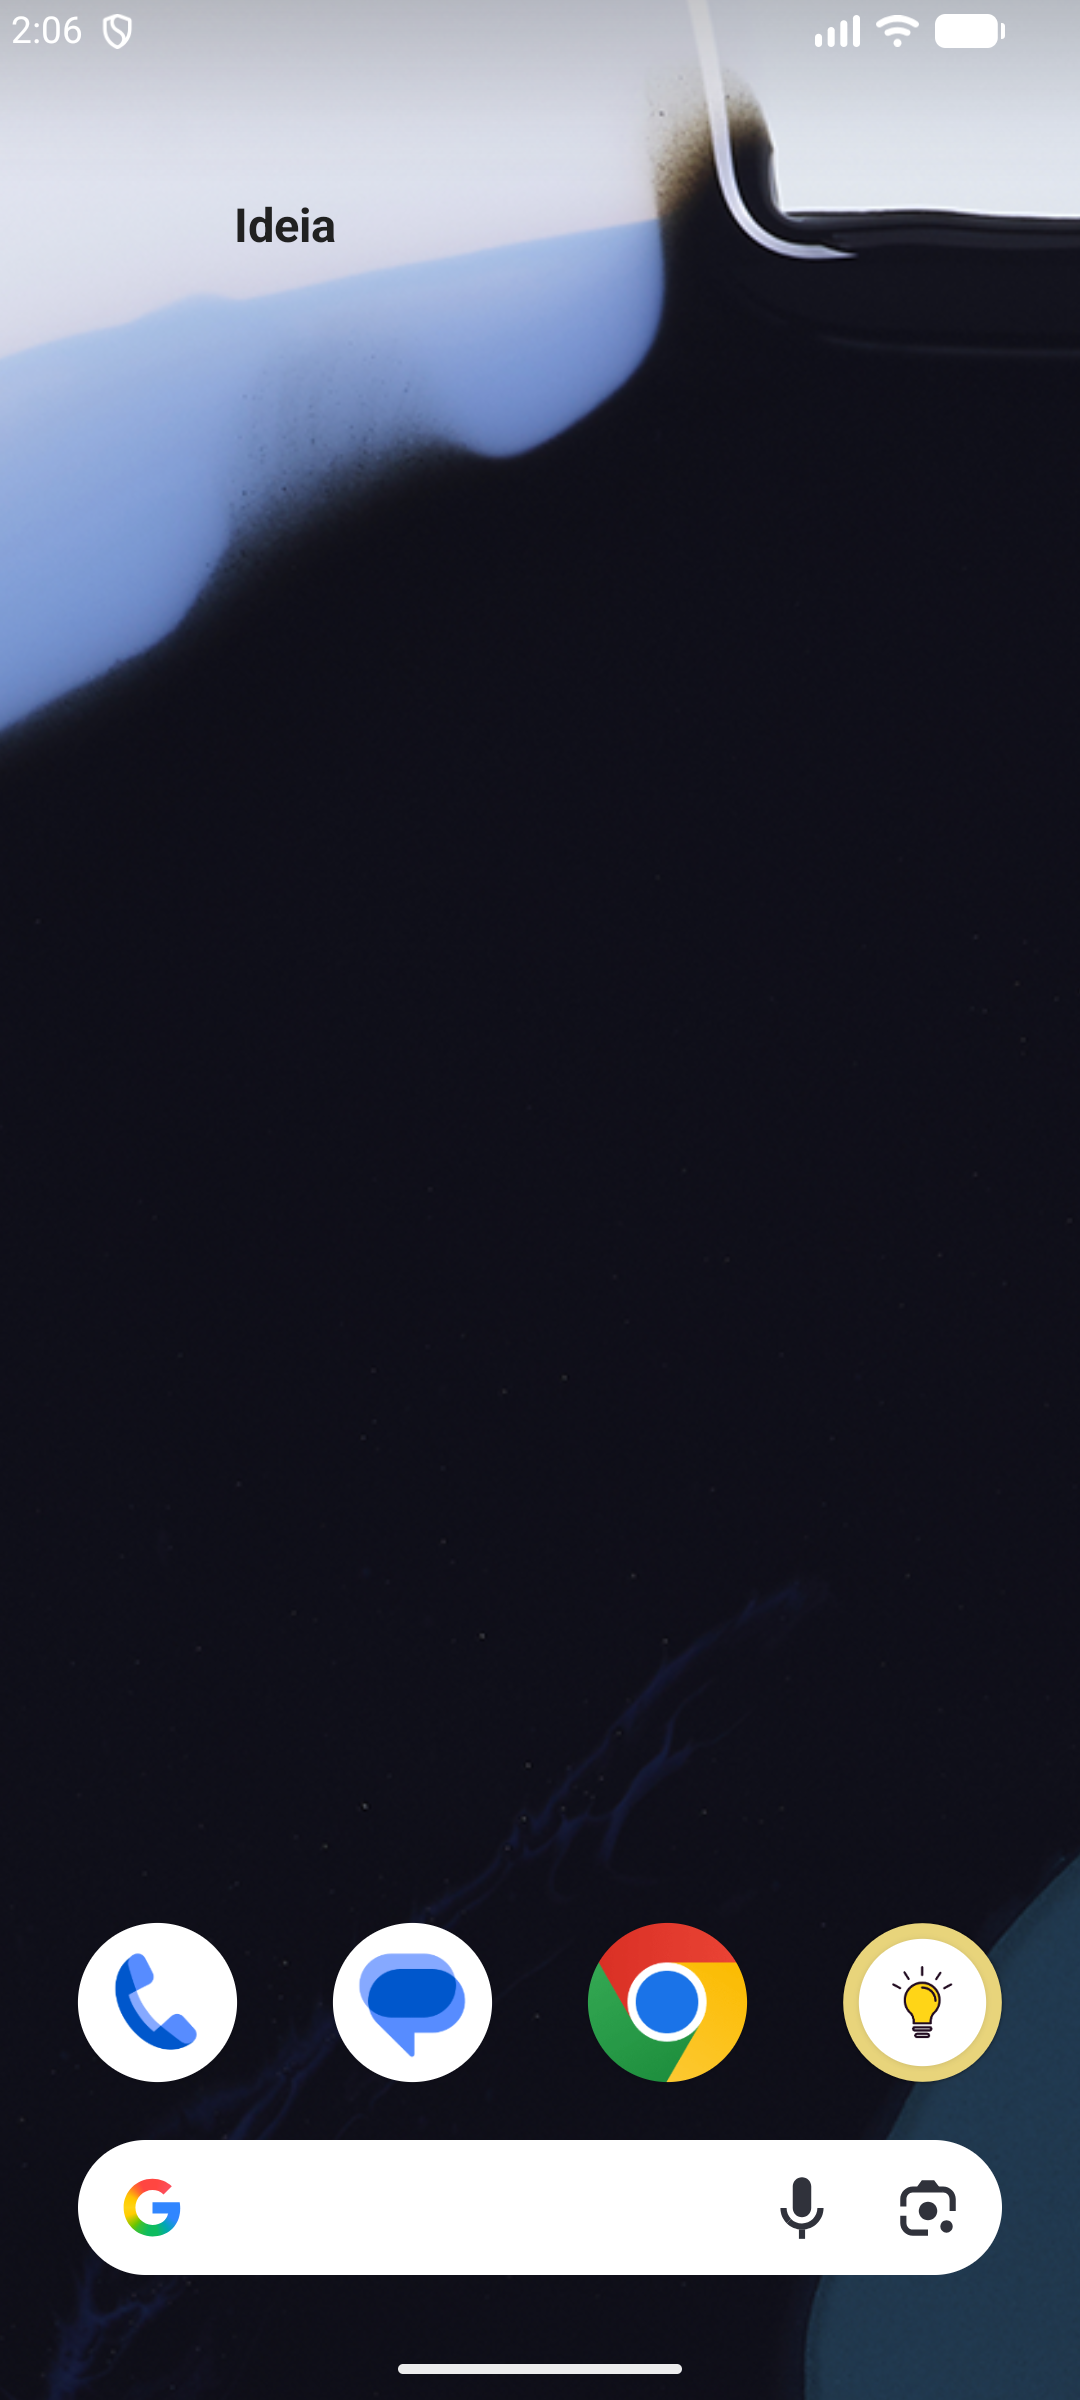
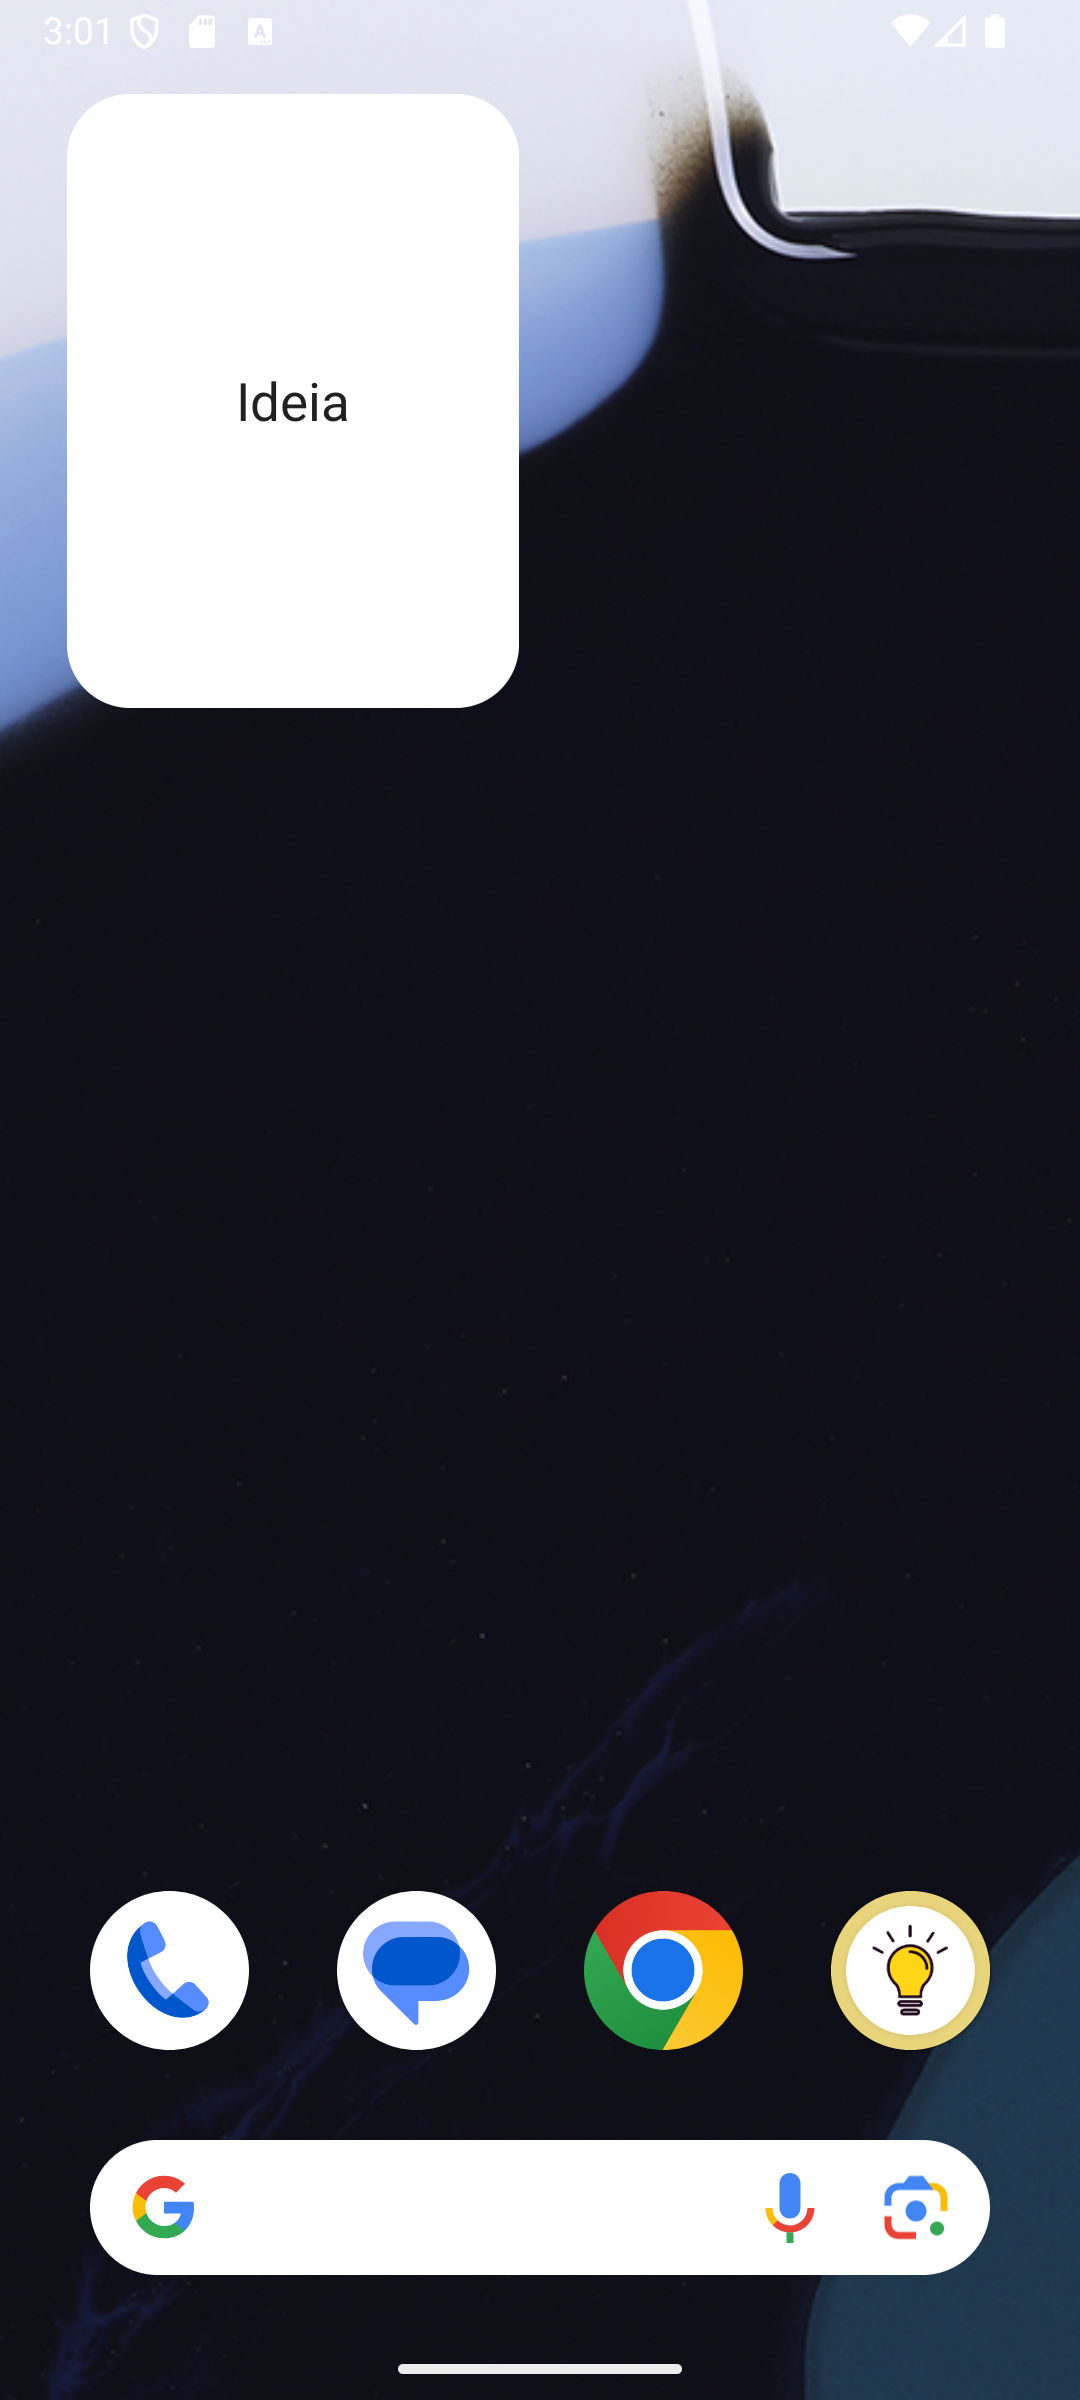
aula

diff --git a/ds/turmas/2DES_A/4º Semestre/03-ppdm2/aula07/README.md b/ds/turmas/2DES_A/4º Semestre/03-ppdm2/aula07/README.md
@@ -200,11 +200,34 @@ class MainApp extends StatelessWidget {
 ```bash
 flutter build apk --release
 ```
-</details>
-
+- Crie ou edite o arquivo `./flutter_home_widget.iml`
+```iml
+<?xml version="1.0" encoding="UTF-8"?>
+<module type="JAVA_MODULE" version="4">
+  <component name="NewModuleRootManager" inherit-compiler-output="true">
+    <exclude-output />
+    <content url="file://$MODULE_DIR$">
+      <sourceFolder url="file://$MODULE_DIR$/lib" isTestSource="false" />
+      <sourceFolder url="file://$MODULE_DIR$/test" isTestSource="true" />
+      <excludeFolder url="file://$MODULE_DIR$/.dart_tool" />
+      <excludeFolder url="file://$MODULE_DIR$/.idea" />
+      <excludeFolder url="file://$MODULE_DIR$/build" />
+    </content>
+    <orderEntry type="sourceFolder" forTests="false" />
+    <orderEntry type="library" name="Dart SDK" level="project" />
+    <orderEntry type="library" name="Flutter Plugins" level="project" />
+    <orderEntry type="library" name="Dart Packages" level="project" />
+  </component>
+</module>
+```
 ## Resultado
 
+|![Tela01](./home_widget.png)|![Tela01](./home_widget2.png)|![Tela01](./home_widget3.png)|
+|-|-|-|
+|Home|CLick do Botão|Widget|
 
+
+</details>
 
 ## Exemplo: [App Receitas](https://github.com/wellifabio/sesi_ppdm2_receitas_flutter_api_2026.git)
 App de receitas que consome uma API REST para exibir informações sobre pratos e receitas.
@@ -216,7 +239,3 @@ App de receitas que consome uma API REST para exibir informações sobre pratos 
 - Teste o widget no seu aplicativo e tire um print da tela mostrando o widget em ação.
 - Acrescente o print da tela no README.md do seu repositório GitHub.
 - Apresente o repositório para o professor vistar e avaliar a atividade.
-
-|![Tela01](./home_widget.png)|![Tela01](./home_widget2.png)|![Tela01](./home_widget3.png)|
-|-|-|-|
-|Home|CLick do Botão|Widget|
